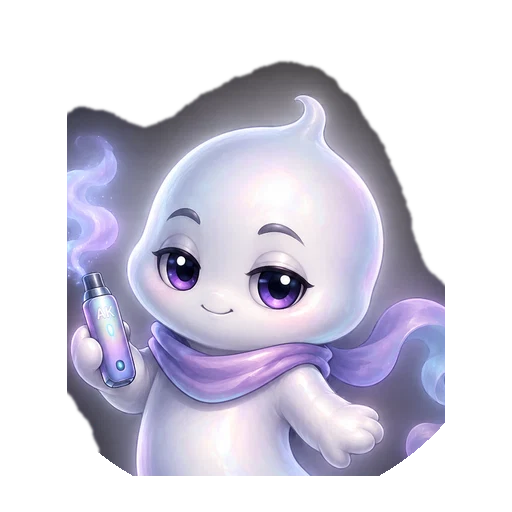
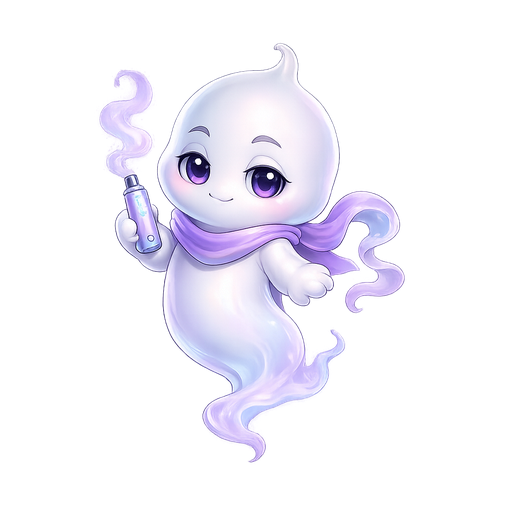
maj vapo

diff --git a/character-poses.js b/character-poses.js
@@ -1,108 +1,36 @@
 window.AKGAME_CHARACTER_POSES = window.AKGAME_CHARACTER_POSES || {};
 Object.assign(window.AKGAME_CHARACTER_POSES, {
-  "kaia": {
-    "name": "Kaia",
-    "legacyAvatarId": "panda",
-    "legacyPath": "assets/characters/kaia.webp",
+  "filou": {
+    "name": "Filou",
+    "legacyAvatarId": "fox",
+    "legacyPath": "assets/characters/filou.webp",
     "idle": {
-      "full": "assets/characters/kaia/idle/full.webp",
-      "bust": "assets/characters/kaia/idle/bust.webp",
-      "avatar-circle": "assets/characters/kaia/idle/avatar-circle.webp",
-      "icon": "assets/characters/kaia/idle/icon.webp"
-    },
-    "talk": {
-      "full": "assets/characters/kaia/talk/full.webp",
-      "bust": "assets/characters/kaia/talk/bust.webp",
-      "avatar-circle": "assets/characters/kaia/talk/avatar-circle.webp",
-      "icon": "assets/characters/kaia/talk/icon.webp"
-    },
-    "hype": {
-      "full": "assets/characters/kaia/hype/full.webp",
-      "bust": "assets/characters/kaia/hype/bust.webp",
-      "avatar-circle": "assets/characters/kaia/hype/avatar-circle.webp",
-      "icon": "assets/characters/kaia/hype/icon.webp"
-    },
-    "win": {
-      "full": "assets/characters/kaia/win/full.webp",
-      "bust": "assets/characters/kaia/win/bust.webp",
-      "avatar-circle": "assets/characters/kaia/win/avatar-circle.webp",
-      "icon": "assets/characters/kaia/win/icon.webp"
-    },
-    "lose": {
-      "full": "assets/characters/kaia/lose/full.webp",
-      "bust": "assets/characters/kaia/lose/bust.webp",
-      "avatar-circle": "assets/characters/kaia/lose/avatar-circle.webp",
-      "icon": "assets/characters/kaia/lose/icon.webp"
+      "full": "assets/characters/filou/idle/full.webp",
+      "bust": "assets/characters/filou/idle/bust.webp",
+      "avatar-circle": "assets/characters/filou/idle/avatar-circle.webp",
+      "icon": "assets/characters/filou/idle/icon.webp"
     }
   },
-  "bonnie": {
-    "name": "Bonnie",
-    "legacyAvatarId": "dog",
-    "legacyPath": "assets/characters/bonnie.webp",
+  "nuggets": {
+    "name": "Nuggets",
+    "legacyAvatarId": "chick",
+    "legacyPath": "assets/characters/nuggets.webp",
     "idle": {
-      "full": "assets/characters/bonnie/idle/full.webp",
-      "bust": "assets/characters/bonnie/idle/bust.webp",
-      "avatar-circle": "assets/characters/bonnie/idle/avatar-circle.webp",
-      "icon": "assets/characters/bonnie/idle/icon.webp"
-    },
-    "talk": {
-      "full": "assets/characters/bonnie/talk/full.webp",
-      "bust": "assets/characters/bonnie/talk/bust.webp",
-      "avatar-circle": "assets/characters/bonnie/talk/avatar-circle.webp",
-      "icon": "assets/characters/bonnie/talk/icon.webp"
-    },
-    "hype": {
-      "full": "assets/characters/bonnie/hype/full.webp",
-      "bust": "assets/characters/bonnie/hype/bust.webp",
-      "avatar-circle": "assets/characters/bonnie/hype/avatar-circle.webp",
-      "icon": "assets/characters/bonnie/hype/icon.webp"
-    },
-    "win": {
-      "full": "assets/characters/bonnie/win/full.webp",
-      "bust": "assets/characters/bonnie/win/bust.webp",
-      "avatar-circle": "assets/characters/bonnie/win/avatar-circle.webp",
-      "icon": "assets/characters/bonnie/win/icon.webp"
-    },
-    "lose": {
-      "full": "assets/characters/bonnie/lose/full.webp",
-      "bust": "assets/characters/bonnie/lose/bust.webp",
-      "avatar-circle": "assets/characters/bonnie/lose/avatar-circle.webp",
-      "icon": "assets/characters/bonnie/lose/icon.webp"
+      "full": "assets/characters/nuggets/idle/full.webp",
+      "bust": "assets/characters/nuggets/idle/bust.webp",
+      "avatar-circle": "assets/characters/nuggets/idle/avatar-circle.webp",
+      "icon": "assets/characters/nuggets/idle/icon.webp"
     }
   },
-  "edgar": {
-    "name": "Edgar",
-    "legacyAvatarId": "crow",
-    "legacyPath": "assets/characters/edgar.webp",
+  "vapo": {
+    "name": "Vapo",
+    "legacyAvatarId": "ghost",
+    "legacyPath": "assets/characters/vapo.webp",
     "idle": {
-      "full": "assets/characters/edgar/idle/full.webp",
-      "bust": "assets/characters/edgar/idle/bust.webp",
-      "avatar-circle": "assets/characters/edgar/idle/avatar-circle.webp",
-      "icon": "assets/characters/edgar/idle/icon.webp"
-    },
-    "talk": {
-      "full": "assets/characters/edgar/talk/full.webp",
-      "bust": "assets/characters/edgar/talk/bust.webp",
-      "avatar-circle": "assets/characters/edgar/talk/avatar-circle.webp",
-      "icon": "assets/characters/edgar/talk/icon.webp"
-    },
-    "hype": {
-      "full": "assets/characters/edgar/hype/full.webp",
-      "bust": "assets/characters/edgar/hype/bust.webp",
-      "avatar-circle": "assets/characters/edgar/hype/avatar-circle.webp",
-      "icon": "assets/characters/edgar/hype/icon.webp"
-    },
-    "win": {
-      "full": "assets/characters/edgar/win/full.webp",
-      "bust": "assets/characters/edgar/win/bust.webp",
-      "avatar-circle": "assets/characters/edgar/win/avatar-circle.webp",
-      "icon": "assets/characters/edgar/win/icon.webp"
-    },
-    "lose": {
-      "full": "assets/characters/edgar/lose/full.webp",
-      "bust": "assets/characters/edgar/lose/bust.webp",
-      "avatar-circle": "assets/characters/edgar/lose/avatar-circle.webp",
-      "icon": "assets/characters/edgar/lose/icon.webp"
+      "full": "assets/characters/vapo/idle/full.webp",
+      "bust": "assets/characters/vapo/idle/bust.webp",
+      "avatar-circle": "assets/characters/vapo/idle/avatar-circle.webp",
+      "icon": "assets/characters/vapo/idle/icon.webp"
     }
   }
 });
